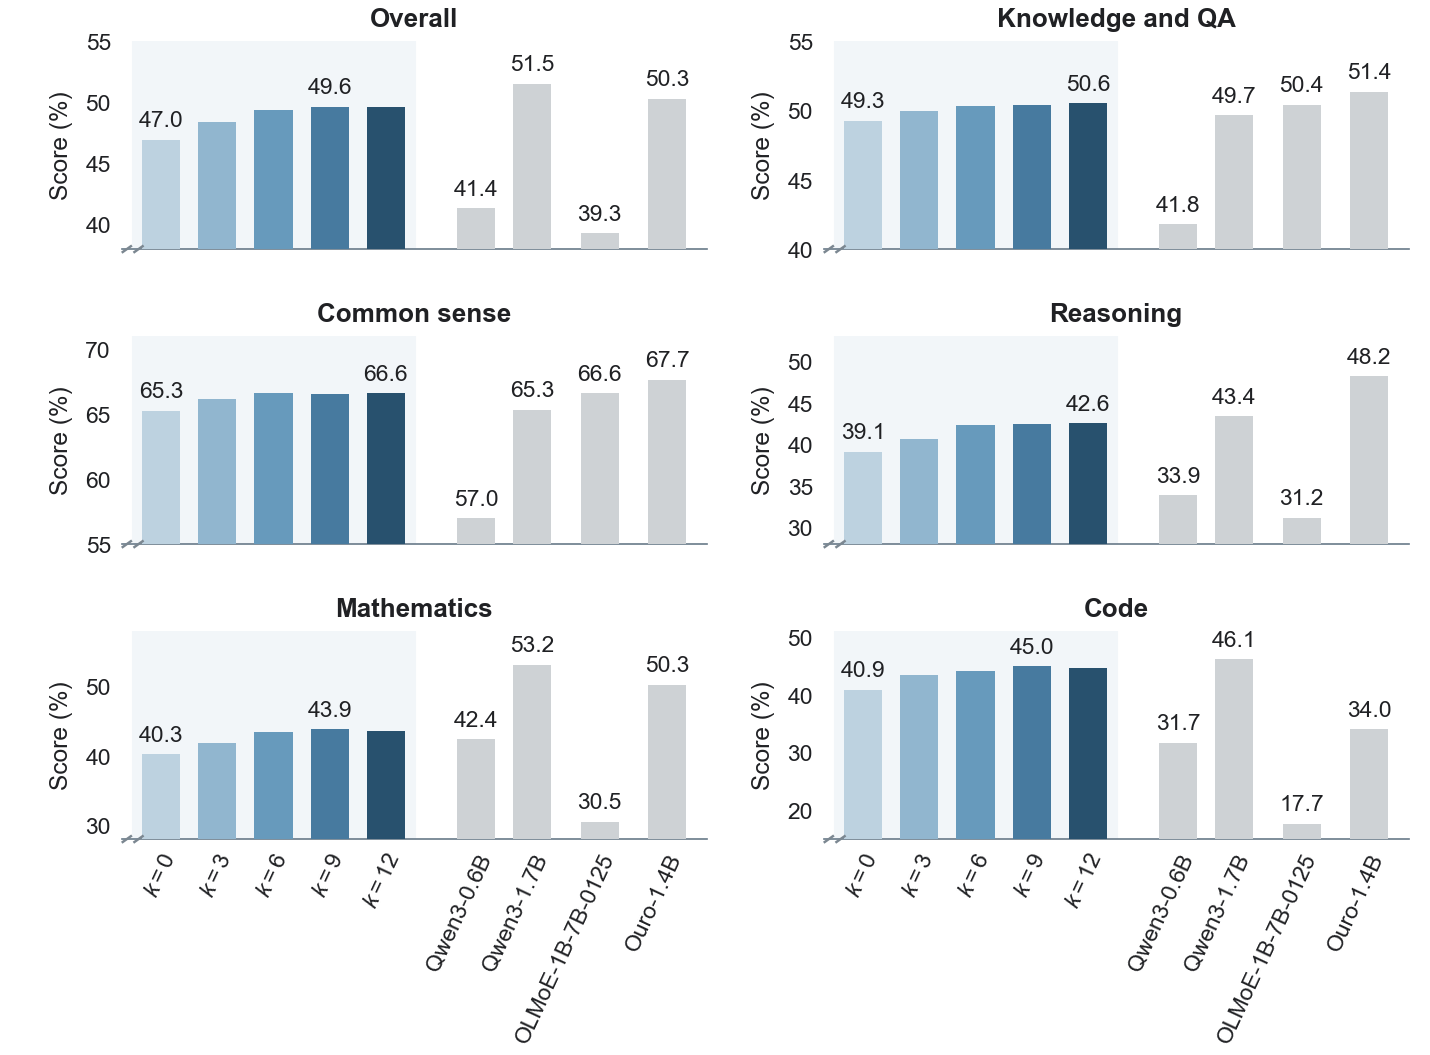
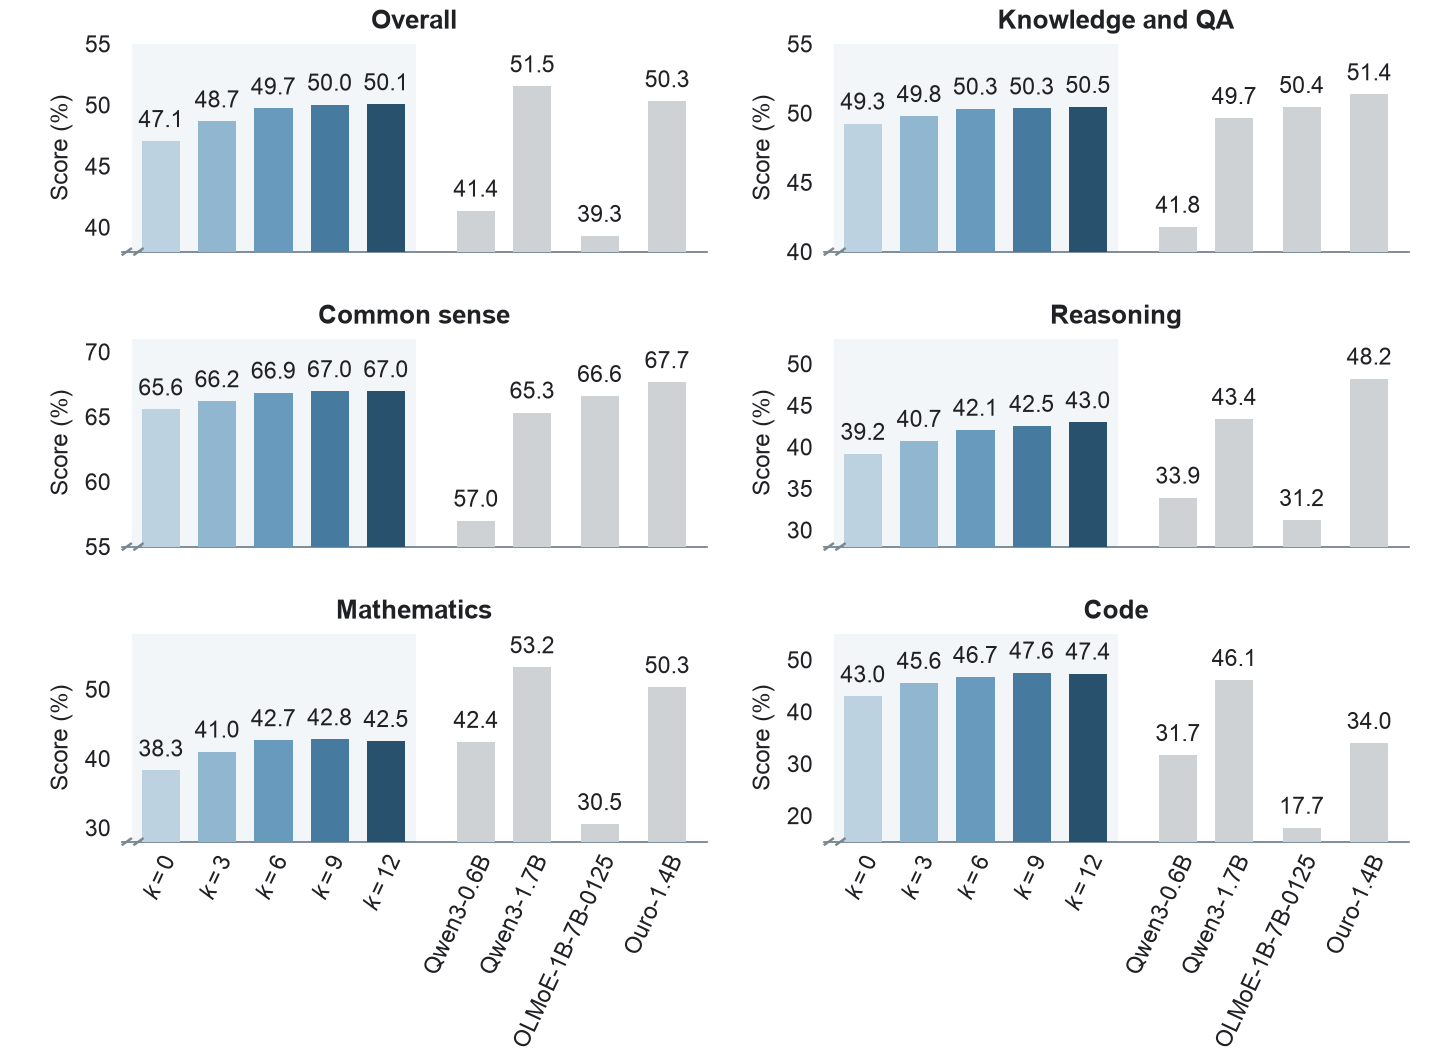
Update Base-8K results and corresponding author details

diff --git a/index.html b/index.html
@@ -29,11 +29,11 @@
       <span>Yudong Zhang<sup>1</sup></span>
       <span>Wei Ding<sup>1</sup></span>
       <span>Kaili Zheng<sup>1</sup></span>
-      <span>Zhenyu Zhang<sup>2</sup></span>
       <span>Yuchen Ding<sup>2</sup></span>
+      <span>Zhenyu Zhang<sup>2,*</sup></span>
     </p>
     <p class="affils"><span><sup>1</sup>Tsinghua University</span><span><sup>2</sup>Baidu Inc.</span></p>
-    <p class="corr">Correspondence: <a href="mailto:zhangzhenyu07@baidu.com">zhangzhenyu07@baidu.com</a></p>
+    <p class="corr">* Corresponding author</p>
 
     <nav class="links" aria-label="Resources">
       <!-- Replace each span.soon with an <a class="btn" href="..."> once the link exists. -->
@@ -112,16 +112,16 @@
           <h3>Comparison with public models</h3>
           <p>Additional inference depth improves Accordion-Base performance across most evaluated tasks.</p>
         </figcaption>
-        <a class="chart-card" href="static/images/base_comparison.png" target="_blank" rel="noopener"><img src="static/images/base_comparison.png" width="1430" height="1055" loading="lazy"
-             alt="Six bar-chart panels, Overall plus five capability categories, comparing Accordion-Base at five budgets with Qwen3-0.6B, Qwen3-1.7B, OLMoE-1B-7B-0125 and Ouro-1.4B. Overall rises from 47.0 at k = 0 to 49.6 at k = 9."></a>
+        <a class="chart-card" href="static/images/base_comparison.png?v=9488d2d5" target="_blank" rel="noopener"><img src="static/images/base_comparison.png?v=9488d2d5" width="1430" height="1058" loading="lazy"
+             alt="Six bar-chart panels, Overall plus five capability categories, comparing Accordion-Base-8K at five budgets with Qwen3-0.6B, Qwen3-1.7B, OLMoE-1B-7B-0125 and Ouro-1.4B. Additional depth improves all five category averages."></a>
       </figure>
       <figure class="result">
         <figcaption>
           <h3>Quality versus inference cost</h3>
           <p>The middle budget captures most of the quality gains with a moderate increase in decoding latency.</p>
         </figcaption>
-        <a class="chart-card" href="static/images/quality_latency.png" target="_blank" rel="noopener"><img src="static/images/quality_latency.png" width="1430" height="512" loading="lazy"
-             alt="Four panels: quality versus time per output token, time to first token, decode throughput and peak memory across loop budgets for 8K, 16K and 32K prompts at batch sizes 1 and 8."></a>
+        <a class="chart-card" href="static/images/quality_latency.png?v=b5a7b29c" target="_blank" rel="noopener"><img src="static/images/quality_latency.png?v=b5a7b29c" width="1430" height="517" loading="lazy"
+             alt="Four panels pairing Accordion-Base-8K quality with separately measured Accordion-RL runtime: quality versus time per output token, time to first token, decode throughput and peak memory across loop budgets for 8K, 16K and 32K prompts at batch sizes 1 and 8."></a>
       </figure>
       <figure class="result">
         <figcaption>
@@ -166,7 +166,7 @@
       <button type="button" id="copy-bib">Copy</button>
 <pre id="bib-text"><code>@article{zhang2026accordion,
   title   = {Accordion: Elastic-Depth Inference via Fixed-Prefix Layer Looping},
-  author  = {Zhang, Yudong and Ding, Wei and Zheng, Kaili and Zhang, Zhenyu and Ding, Yuchen},
+  author  = {Zhang, Yudong and Ding, Wei and Zheng, Kaili and Ding, Yuchen and Zhang, Zhenyu},
   journal = {arXiv preprint},
   year    = {2026}
 }</code></pre>

diff --git a/static/css/style.css b/static/css/style.css
@@ -132,7 +132,7 @@ figure.narrow img { max-width: 860px; margin: 0 auto; }
 code, .math { font-family: "JetBrains Mono", ui-monospace, Menlo, monospace; font-size: 0.88em; }
 
 /* ---------- BibTeX ---------- */
-.bib { position: relative; }
+.bib { position: relative; margin-top: 20px; }
 .bib pre {
   margin: 0; padding: 18px 20px; overflow-x: auto;
   background: #1f2a33; color: #e6edf3; border-radius: var(--radius);
